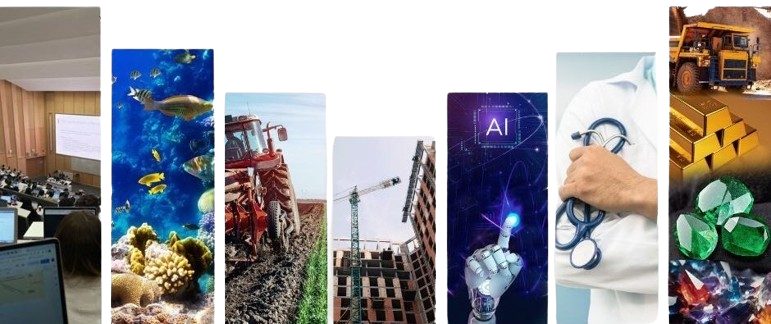
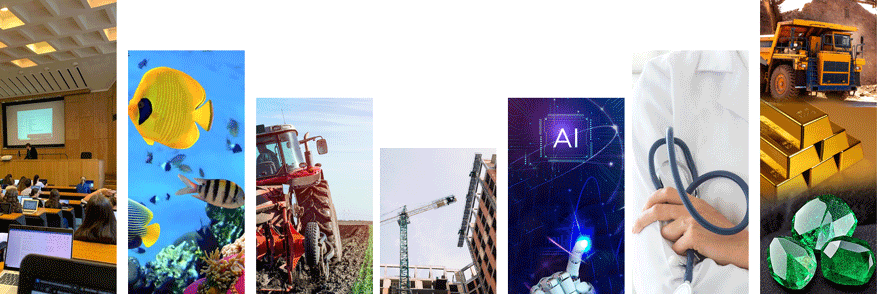
domodiffr

diff --git a/public/assets/css/style.css b/public/assets/css/style.css
@@ -22,6 +22,7 @@ html,body{
     margin: 0;
     width: 100%;
     height: 100%;
+    scroll-behavior: smooth;
 }
 
 html{
@@ -322,7 +323,7 @@ background: linear-gradient(149deg, rgba(63,99,149,1) 6%, rgba(26,128,168,1) 100
     height: 282px;
 }
 .floatting-register-btn{
-    z-index: 100000;
+    z-index: 100;
     display: flex;
     align-items: center;
     height: 40px;
@@ -432,93 +433,76 @@ header a {
 
 .nav-ceo {
     justify-content: center;
+    max-width: 800px;
+    margin: auto;
+    position: relative;
 }
 
 .nav-ceo::after {
     content: "";
     height: 2px;
-    width: 700px;
-    background: var(--grid1);
-    margin-top: 34px;
-    margin-left: 30px;
+    width: calc(100% - calc(calc(100% / 6) * 2));
+    background: #bbd6e0;
     position: absolute;
+    bottom: 0px;
+    
+}
+.slick-dots li button:before{
+    color:#e7f5fa !important;
 }
 
-.nav-ceo button {
-    border: none;
+.nav-ceo li {
+    min-height: 45px;
     color: var(--txt-white2);
-    background: transparent;
     font-weight: 500;
     font-size: 14px;
-    margin-left: 50px;
-    width: 300px;
+    flex: 1;
+    display: flex;
+    align-items: center;
+    justify-content: center;
+    text-align: center;
+    position: relative;
 }
 
-.nav-ceo button.active::after {
+.nav-ceo li::after {
     content: "";
-    height: 10px;
-    width: 10px;
-    background-color: var(--blue2);
+    height: 14px;
+    width: 14px;
+    background: #bbd6e0;
+    z-index: 10;
+    border: 3px solid #bbd6e0;
     border-radius: 50%;
     position: absolute;
+    bottom: -6px;
+    left: 50%;
+    transform: translateX(-50%);
     display: block;
-    margin-left: 125px;
-    z-index: 3;
-    margin-top: 3px;
+}
+.nav-ceo li.active,.nav-ceo li.active:hover,.nav-ceo li.nav-link:hover{
+    color: var(--txt-white1) !important;
 }
 
-.nav-ceo button::after {
-    content: "";
-    height: 12px;
-    width: 12px;
-    background-color: var(--grid1);
-    border-radius: 50%;
-    position: absolute;
-    margin-left: 122px;
-    display: block;
-    z-index: 3;
-}
-
-.nav-ceo button.active::before {
-    content: "";
-    height: 15px;
-    width: 15px;
-    background-color: var(--grid1);
-    border-radius: 50%;
-    position: absolute;
-    display: block;
-    margin-top: 21px;
-    margin-left: 122px;
-    z-index: 3;
+.nav-ceo li.active::after {
+    background: var(--blue1);
 }
 
 .ceo-content span,
 .ceo-content p {
     text-align: justify;
 }
-
-.ceo-content {
-    margin-bottom: 100px;
-    height: 300px;
-    margin-top: 50px;
-    justify-content: center;
+.tab-pane.leforum-content.fade.show.active{
+    display: flex;
 }
 #ambitions{
     background: var(--blue2);
-    padding: 40px 0;
-}
-
-.leforum-txt {
-    width: 50%;
-    justify-content: center;
+    padding: 40px 0 0 0;
 }
 
 .leforum-img {
-    max-width: 35%;
     object-fit: cover;
-    margin-left: 50px;
     border-radius: 8px;
     transition: all .6s;
+    max-width: 450px;
 }
 
 .leforum-img img {
@@ -804,6 +788,12 @@ header .btn {
     display: flex;
     align-items: center;
     justify-content: center;
+}
+.banner-logo{
+    display: block;
+    max-width: 200px;
+    margin-bottom: 20px;
+    background: white;
 }
 
 .banner .capt h1 {
@@ -1979,12 +1969,16 @@ footer hr {
     .expand-sidebar-btn {
         min-width: none !important;
         padding: 0 !important;
-        color: #444;
+        color: var(--txt-white2) !important;
         height: 40px;
         width: 40px;
         display: flex !important;
         align-items: center;
         justify-content: center;
+        font-size: 20px;
+    }
+    .leforum-img {
+        max-width: unset !important;
     }
 }
 

diff --git a/public/assets/css/media.css b/public/assets/css/media.css
@@ -1,6 +1,5 @@
 
 @media (max-width: 1135px){
-    
     header .menu{
         position: fixed;
         background-color: var(--blue1);
@@ -9,19 +8,20 @@
         height: 100vh;
         top: 0;
         right: -100vw;
-        padding: 80px 50px;
         transition: right 0.6s ease;
+        z-index: 10000;
     }
     header .menu.active{
         right: 0;
     }
     header .menu .close-btn{
         position: absolute;
-        top: 0;
-        left: 0;
-        margin-left: 25px;
-        margin-top: 20px;
-        color: #000;
+        min-width: 0 !important;
+        top: 20px;
+        left: 20px;
+        display: block;
+        color: var(--txt-white2) !important;
+        font-size: 18px;
     }
     header .menu .nav-btn{
         display: block;
@@ -32,48 +32,12 @@
     header .reg-btn{
         margin-top: -20px;
     }
-
-    .leforum-img{
-        display: none;
-    }
-    .leforum-img-2{
-        display: block;
-        position: absolute;
-        width: 35%;
-        margin-top: 30%;
-        margin-left: 30%;
-    }
     .leforum-txt{
         width: 100%;
     }
 }
 
 @media (max-width: 839px){
-    .visualiser .content .header::after {
-        width: 300px;
-    }
-    .leforum .nav-item{
-        font-size: 15px;
-    }
-.leforum-txt{
-    justify-content: center;
-}
-.leforum-img{
-    max-width: 40%;
-    object-fit: cover;
-    margin-left: 50px;
-    box-shadow: 10px 0px 30px 0px black;
-    border-radius: 8px;
-    transition: all .6s;
-}
-.leforum-img img{
-    width: 100%;
-    border-radius: 8px;
-}
-.leforum-content.active{
-    display: inline-flex;
-    justify-content: space-between;
-}
 .stand{
     position: absolute;
     width: 504px;
@@ -84,25 +48,6 @@
 }
 .img-stand{
     width: 100%;
-}
-.nav-ceo::after{
-   display: none;
-}
-.nav-ceo button::after{
-   display: none;
-}
-.nav-ceo button.active::before{
-    display: none;
-}
-.nav-ceo button.active::after{
-    content: "";
-    height: 1px;
-    width: 250px;
-    margin-left: 10px;
-    background-color: var(--blue2);
-    position: absolute;
-    display: block;
-    z-index: 3;
 }
 
 .parrain, .organisme{
@@ -123,9 +68,7 @@
 
 }
 @media (max-width: 700px){
-    .visualiser .content .header::after {
-        display: none;
-    }
+
     .leforum-img-2{
         display: block;
         position: absolute;

diff --git a/public/assets/js/navbar.js b/public/assets/js/navbar.js
@@ -14,6 +14,7 @@
 var menu = document.querySelector('.menu');
 var menuBtn = document.querySelector('.menu-btn');
 var closeBtn = document.querySelector('.close-btn');
+let navBtns=document.querySelectorAll('.menu.active .nav-btn');
 
 menuBtn.addEventListener("click", () => {
     menu.classList.add('active');
@@ -22,3 +23,8 @@ menuBtn.addEventListener("click", () => {
 closeBtn.addEventListener("click", () =>{
     menu.classList.remove('active');
 });
+navBtns.forEach((nav)=>{
+    nav.addEventListener('click',function(){
+        menu.classList.remove('active');
+    })
+})
